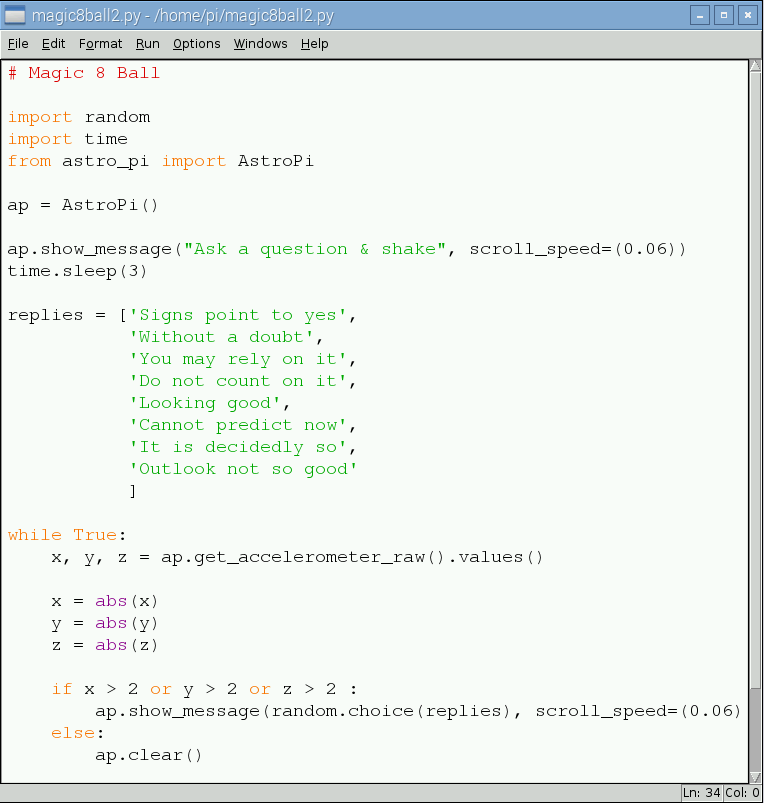
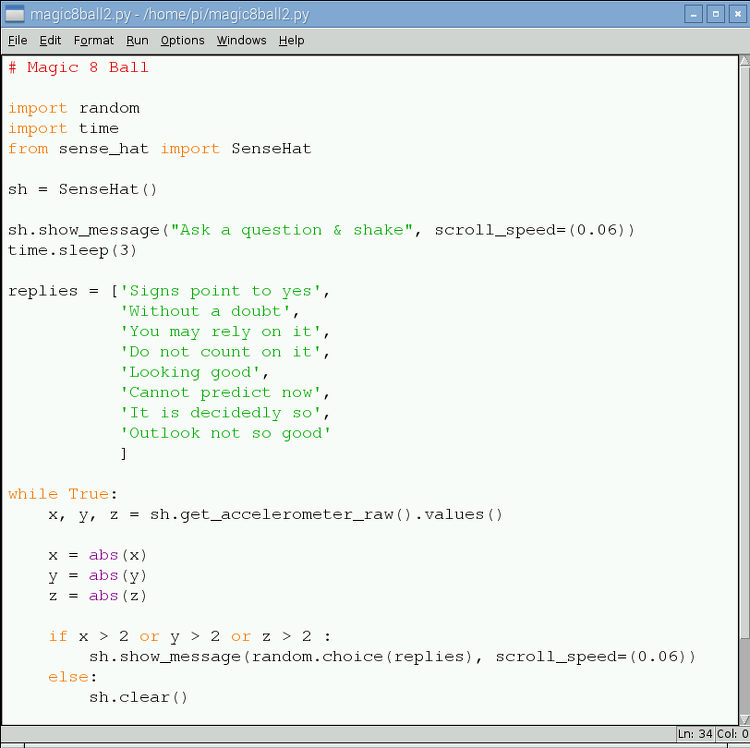
Update files to sense hat

diff --git a/code/magic8ball2.py b/code/magic8ball2.py
@@ -2,11 +2,11 @@
 
 import random
 import time
-from astro_pi import AstroPi
+from sense_hat import SenseHat
 
-ap = AstroPi()
+sh = SenseHat()
 
-ap.show_message("Ask a question & shake", scroll_speed=(0.06))
+sh.show_message("Ask a question & shake", scroll_speed=(0.06))
 time.sleep(3)
 
 replies = ['Signs point to yes',
@@ -20,16 +20,16 @@ replies = ['Signs point to yes',
            ]
 
 while True:
-    x, y, z = ap.get_accelerometer_raw().values()
+    x, y, z = sh.get_accelerometer_raw().values()
 
     x = abs(x)
     y = abs(y)
     z = abs(z)
 
     if x > 2 or y > 2 or z > 2 :
-        ap.show_message(random.choice(replies), scroll_speed=(0.06))
+        sh.show_message(random.choice(replies), scroll_speed=(0.06))
     else:
-        ap.clear()
+        sh.clear()
 
 
 

diff --git a/code/magic8ball1.py b/code/magic8ball1.py
@@ -1,12 +1,12 @@
-# Magic 8 Ball with Astro Pi
+# Magic 8 Ball
 
 import random
 import time
-from astro_pi import AstroPi
+from sense_hat import SenseHat
 
-ap = AstroPi()
+sh = SenseHat()
 
-ap.show_message("Ask a question", scroll_speed=(0.06))
+sh.show_message("Ask a question", scroll_speed=(0.06))
 time.sleep(3)
 
 replies = ['Signs point to yes',
@@ -19,7 +19,7 @@ replies = ['Signs point to yes',
            'Outlook not so good'
            ]
 
-ap.show_message(random.choice(replies), scroll_speed=(0.06))
+sh.show_message(random.choice(replies), scroll_speed=(0.06))
 
 
 
